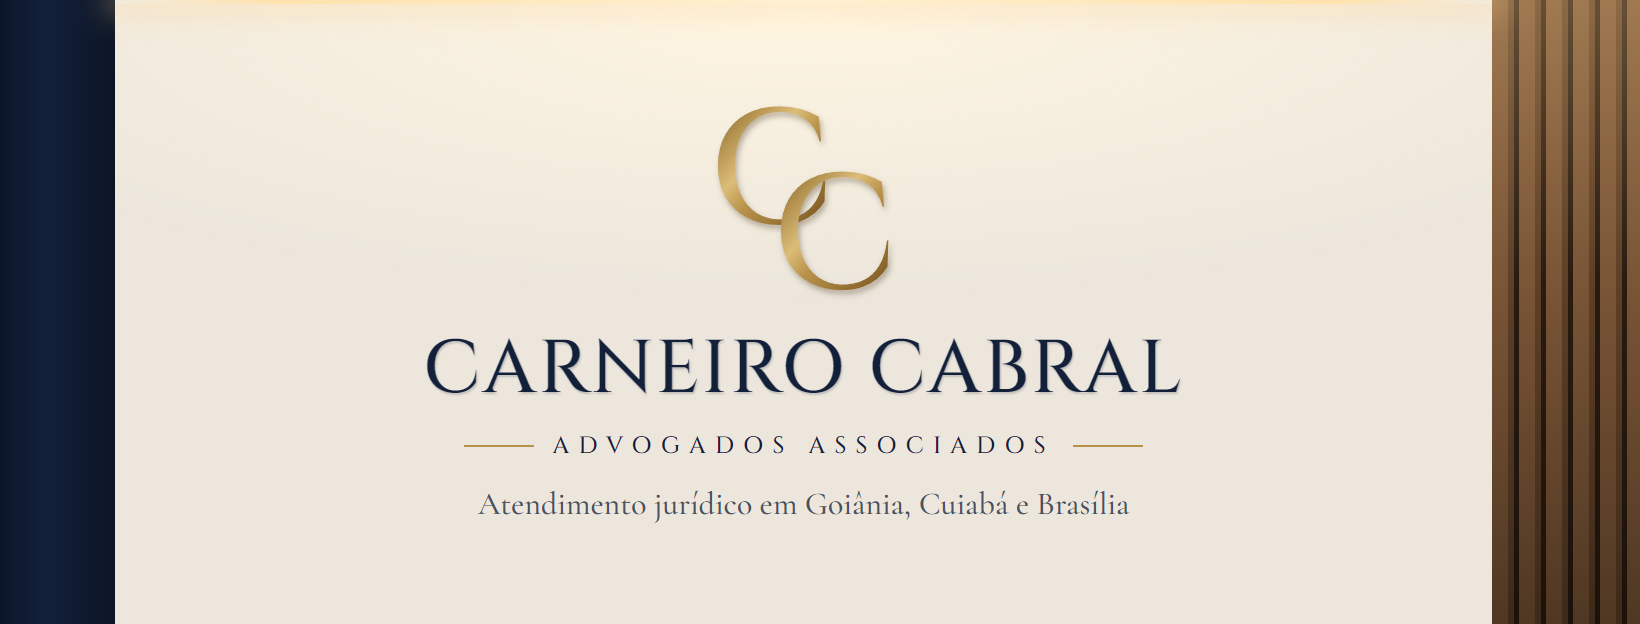
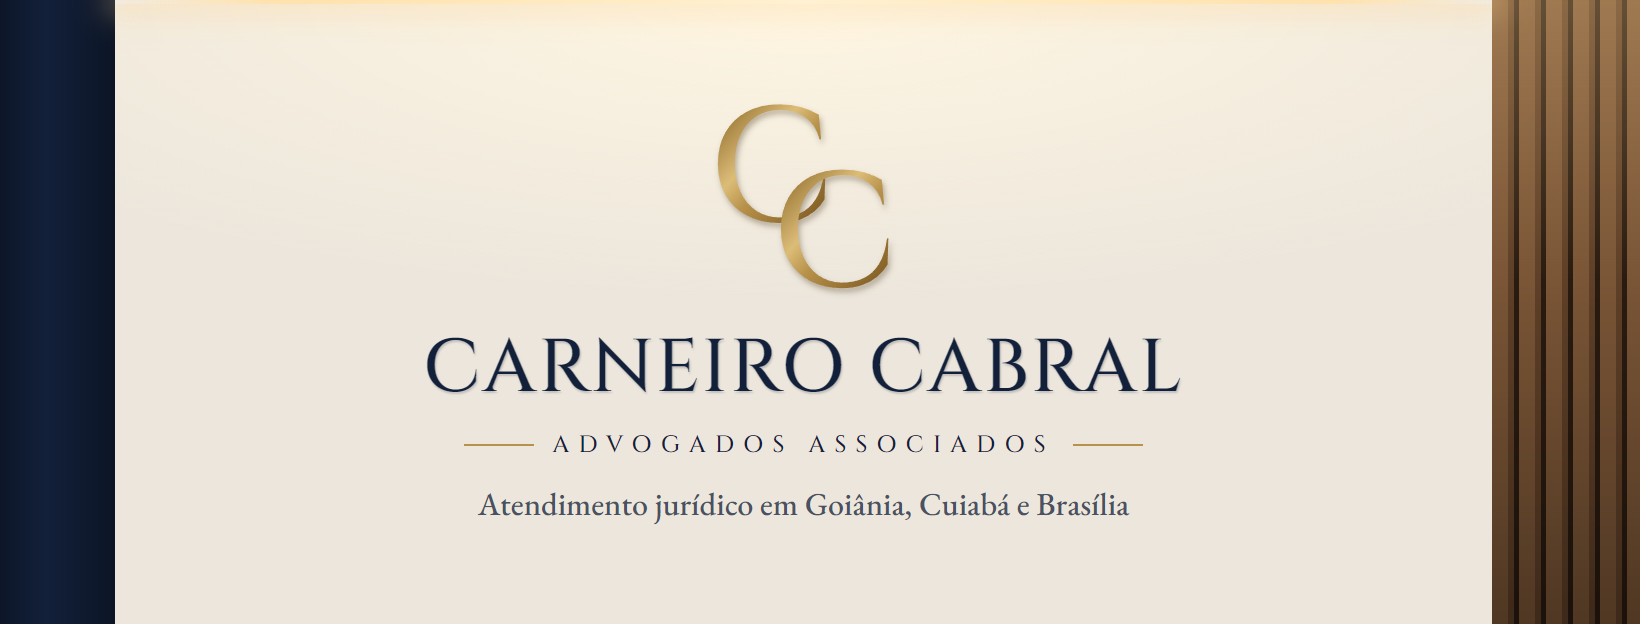
Frentes de consumidor e cobranças (análise do PJe), sala de reuniões, carrossel em loop infinito com pausa, EB Garamond nos títulos

diff --git a/src/data/site.ts b/src/data/site.ts
@@ -41,6 +41,7 @@ export const CREDITOS = [
   { foto: 'Ponte JK ao entardecer, Brasília', autor: 'Arley Cruzper', licenca: 'CC BY-SA 4.0', link: 'https://commons.wikimedia.org/wiki/File:Ponte_JK_em_Bras%C3%ADlia_no_entardecer.jpg' },
   { foto: 'Praça Cívica, Goiânia', autor: 'Boaventuravinicius', licenca: 'CC BY-SA 3.0', link: 'https://commons.wikimedia.org/wiki/File:Pra%C3%A7a_C%C3%ADvica_em_Outubro_de_2026.jpg' },
   { foto: 'Vista aérea do centro de Cuiabá', autor: 'Fabio Gomes', licenca: 'CC BY-SA 4.0', link: 'https://commons.wikimedia.org/wiki/File:Vista_a%C3%A9rea_de_Cuiab%C3%A1_-_%C3%A1rea_central.jpg' },
+  { foto: 'Saguão de check-in de aeroporto', autor: 'Arne Müseler', licenca: 'CC BY-SA 3.0 DE', link: 'https://commons.wikimedia.org/wiki/File:Sao_paulo_airport_GRU_terminal_2_check-in_D.jpg' },
   { foto: 'Colheita de soja em Rondonópolis (MT)', autor: 'Roosevelt Pinheiro/Agência Brasil', licenca: 'CC BY 3.0 BR', link: 'https://commons.wikimedia.org/wiki/File:Ronodon%C3%B3polis_colheita_soja_(Roosevelt_Pinheiro)_28mar09.jpg' },
 ];
 

diff --git a/src/styles/componentes.css b/src/styles/componentes.css
@@ -63,3 +63,12 @@
 
 /* seção de impacto: botão */
 .destaque__botao { margin-top: 28px; }
+
+/* frentes de atuação: foto alterna de lado */
+.lavoura--inversa { grid-template-columns: minmax(0, 9fr) minmax(0, 11fr); background: #f7f3ed; }
+.lavoura--inversa .lavoura__foto { order: 2; }
+.lavoura--inversa .lavoura__texto { padding-left: clamp(20px, 6vw, 96px); padding-right: clamp(28px, 5vw, 72px); }
+@media (max-width: 860px) { .lavoura--inversa { grid-template-columns: 1fr; } .lavoura--inversa .lavoura__foto { order: 0; } }
+.colagem--unica { margin-bottom: 0; }
+
+.equipe__pausa { font-size: .8rem; letter-spacing: -.1em; }

diff --git a/src/styles/global.css b/src/styles/global.css
@@ -16,7 +16,7 @@
   --marmore: #15171c;
 
   --f-marca: 'Cinzel', 'Times New Roman', serif;
-  --f-titulo: 'Cormorant Garamond Variable', Georgia, serif;
+  --f-titulo: 'EB Garamond', Georgia, serif;
   --f-texto: 'Mulish Variable', system-ui, sans-serif;
 
   --raio: 2px;
